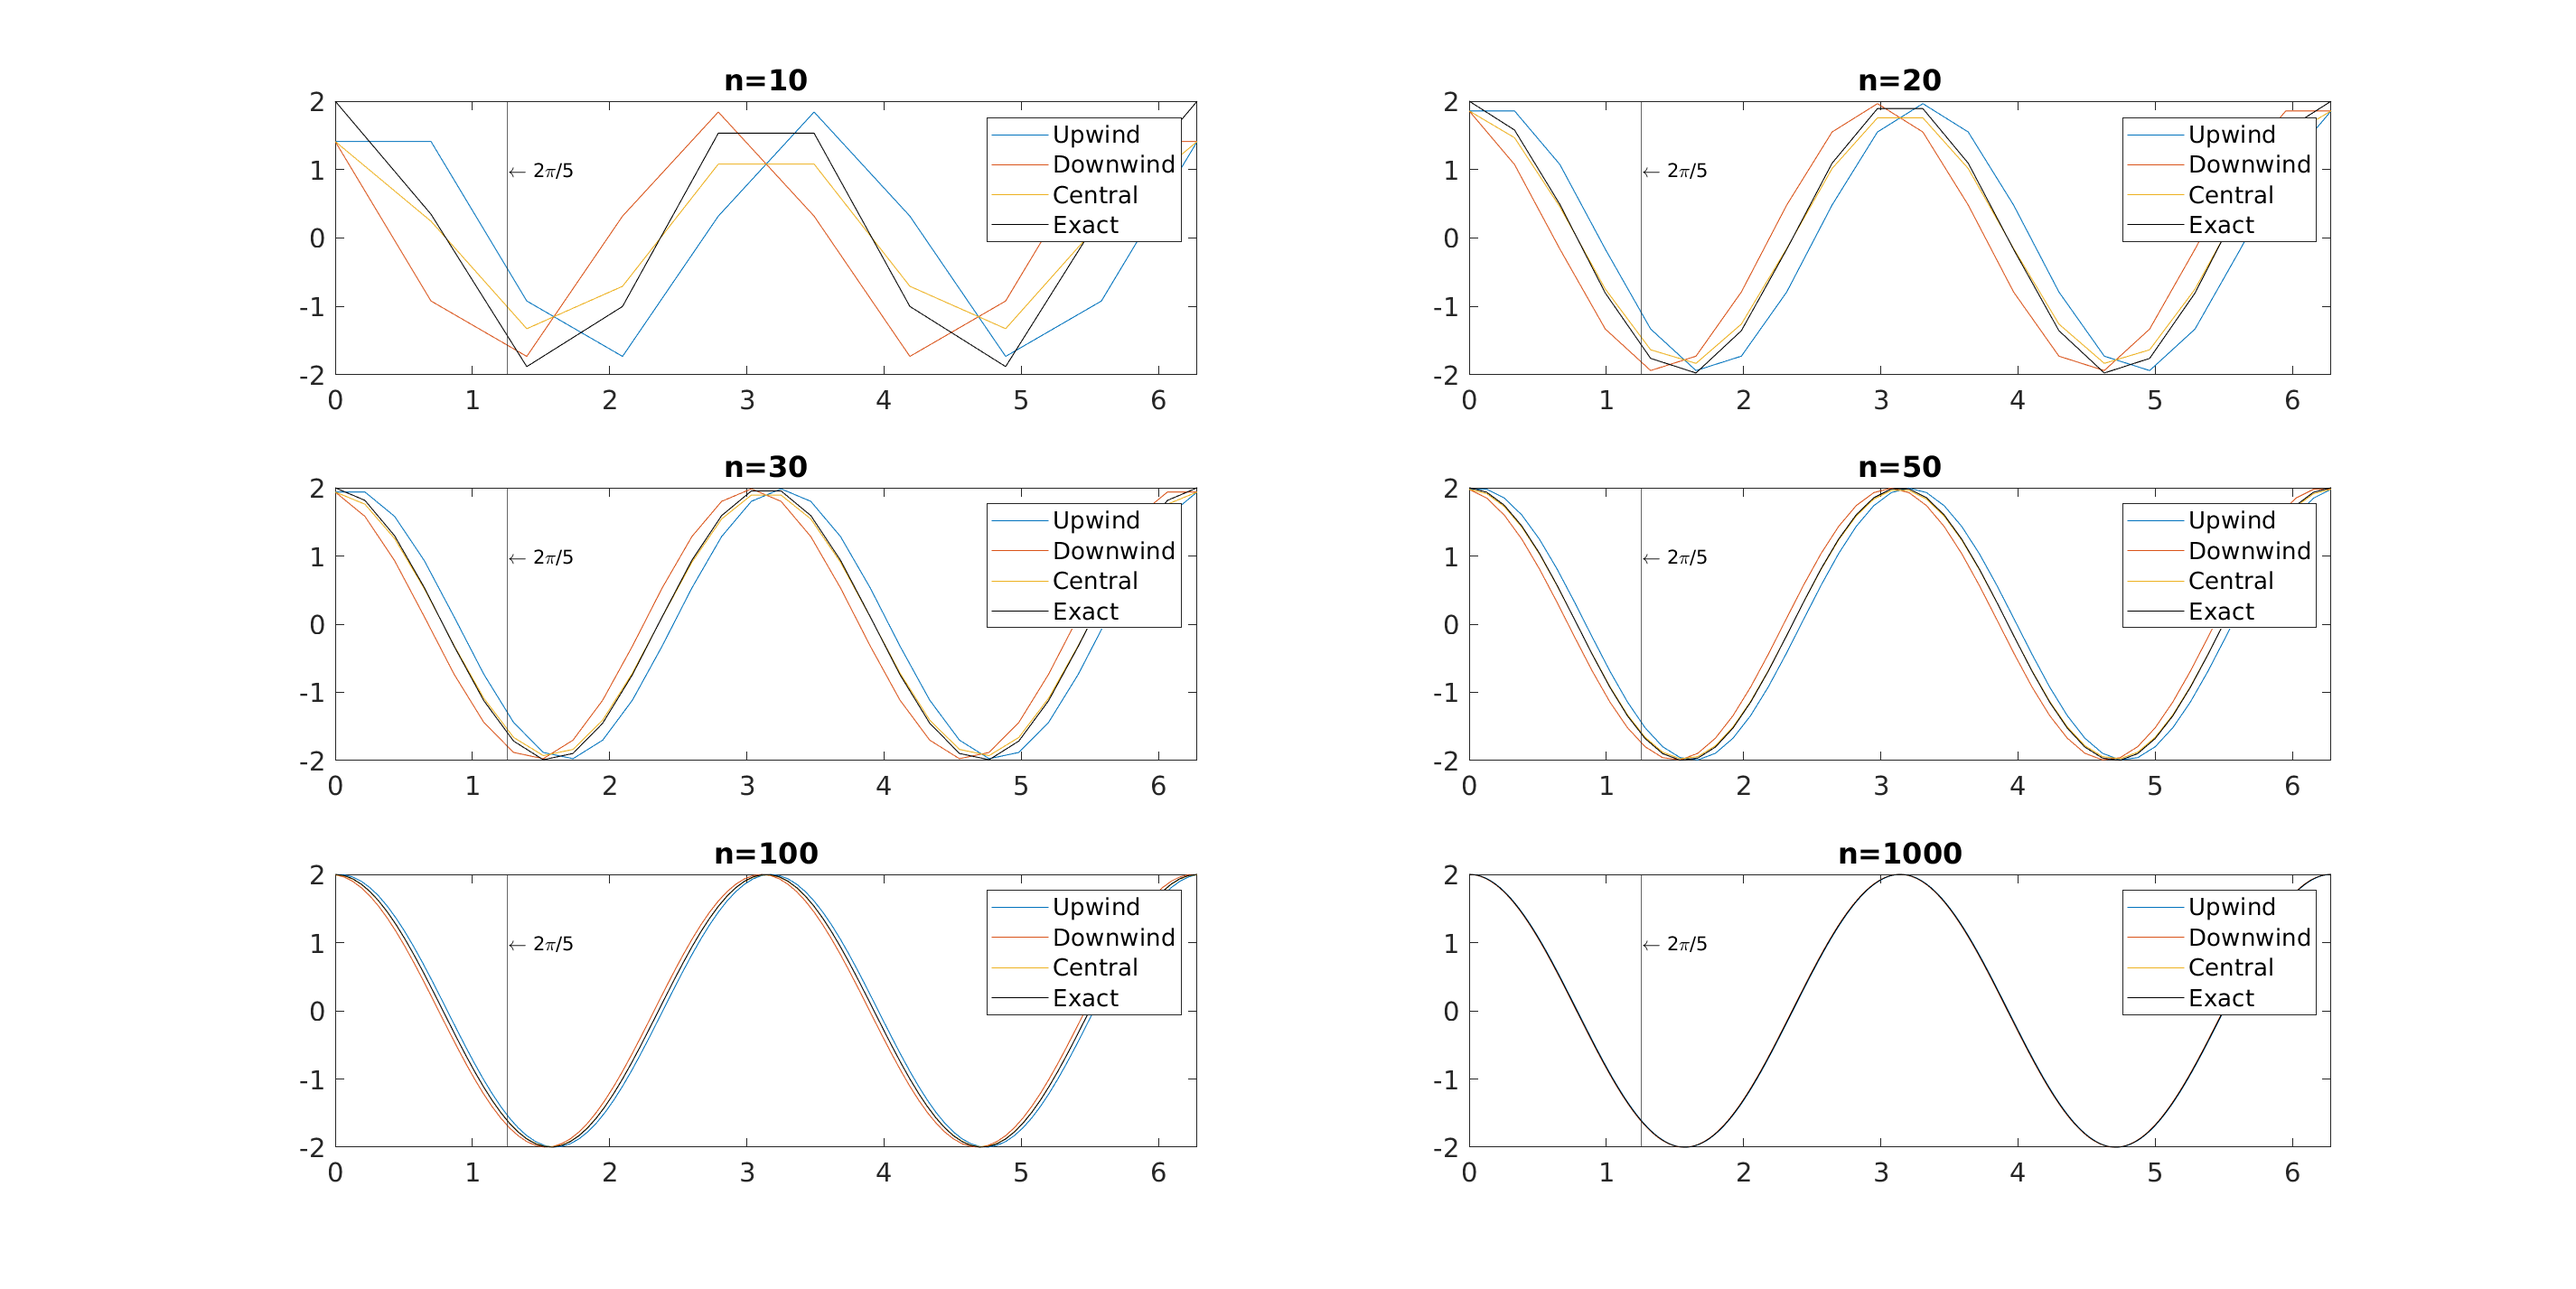
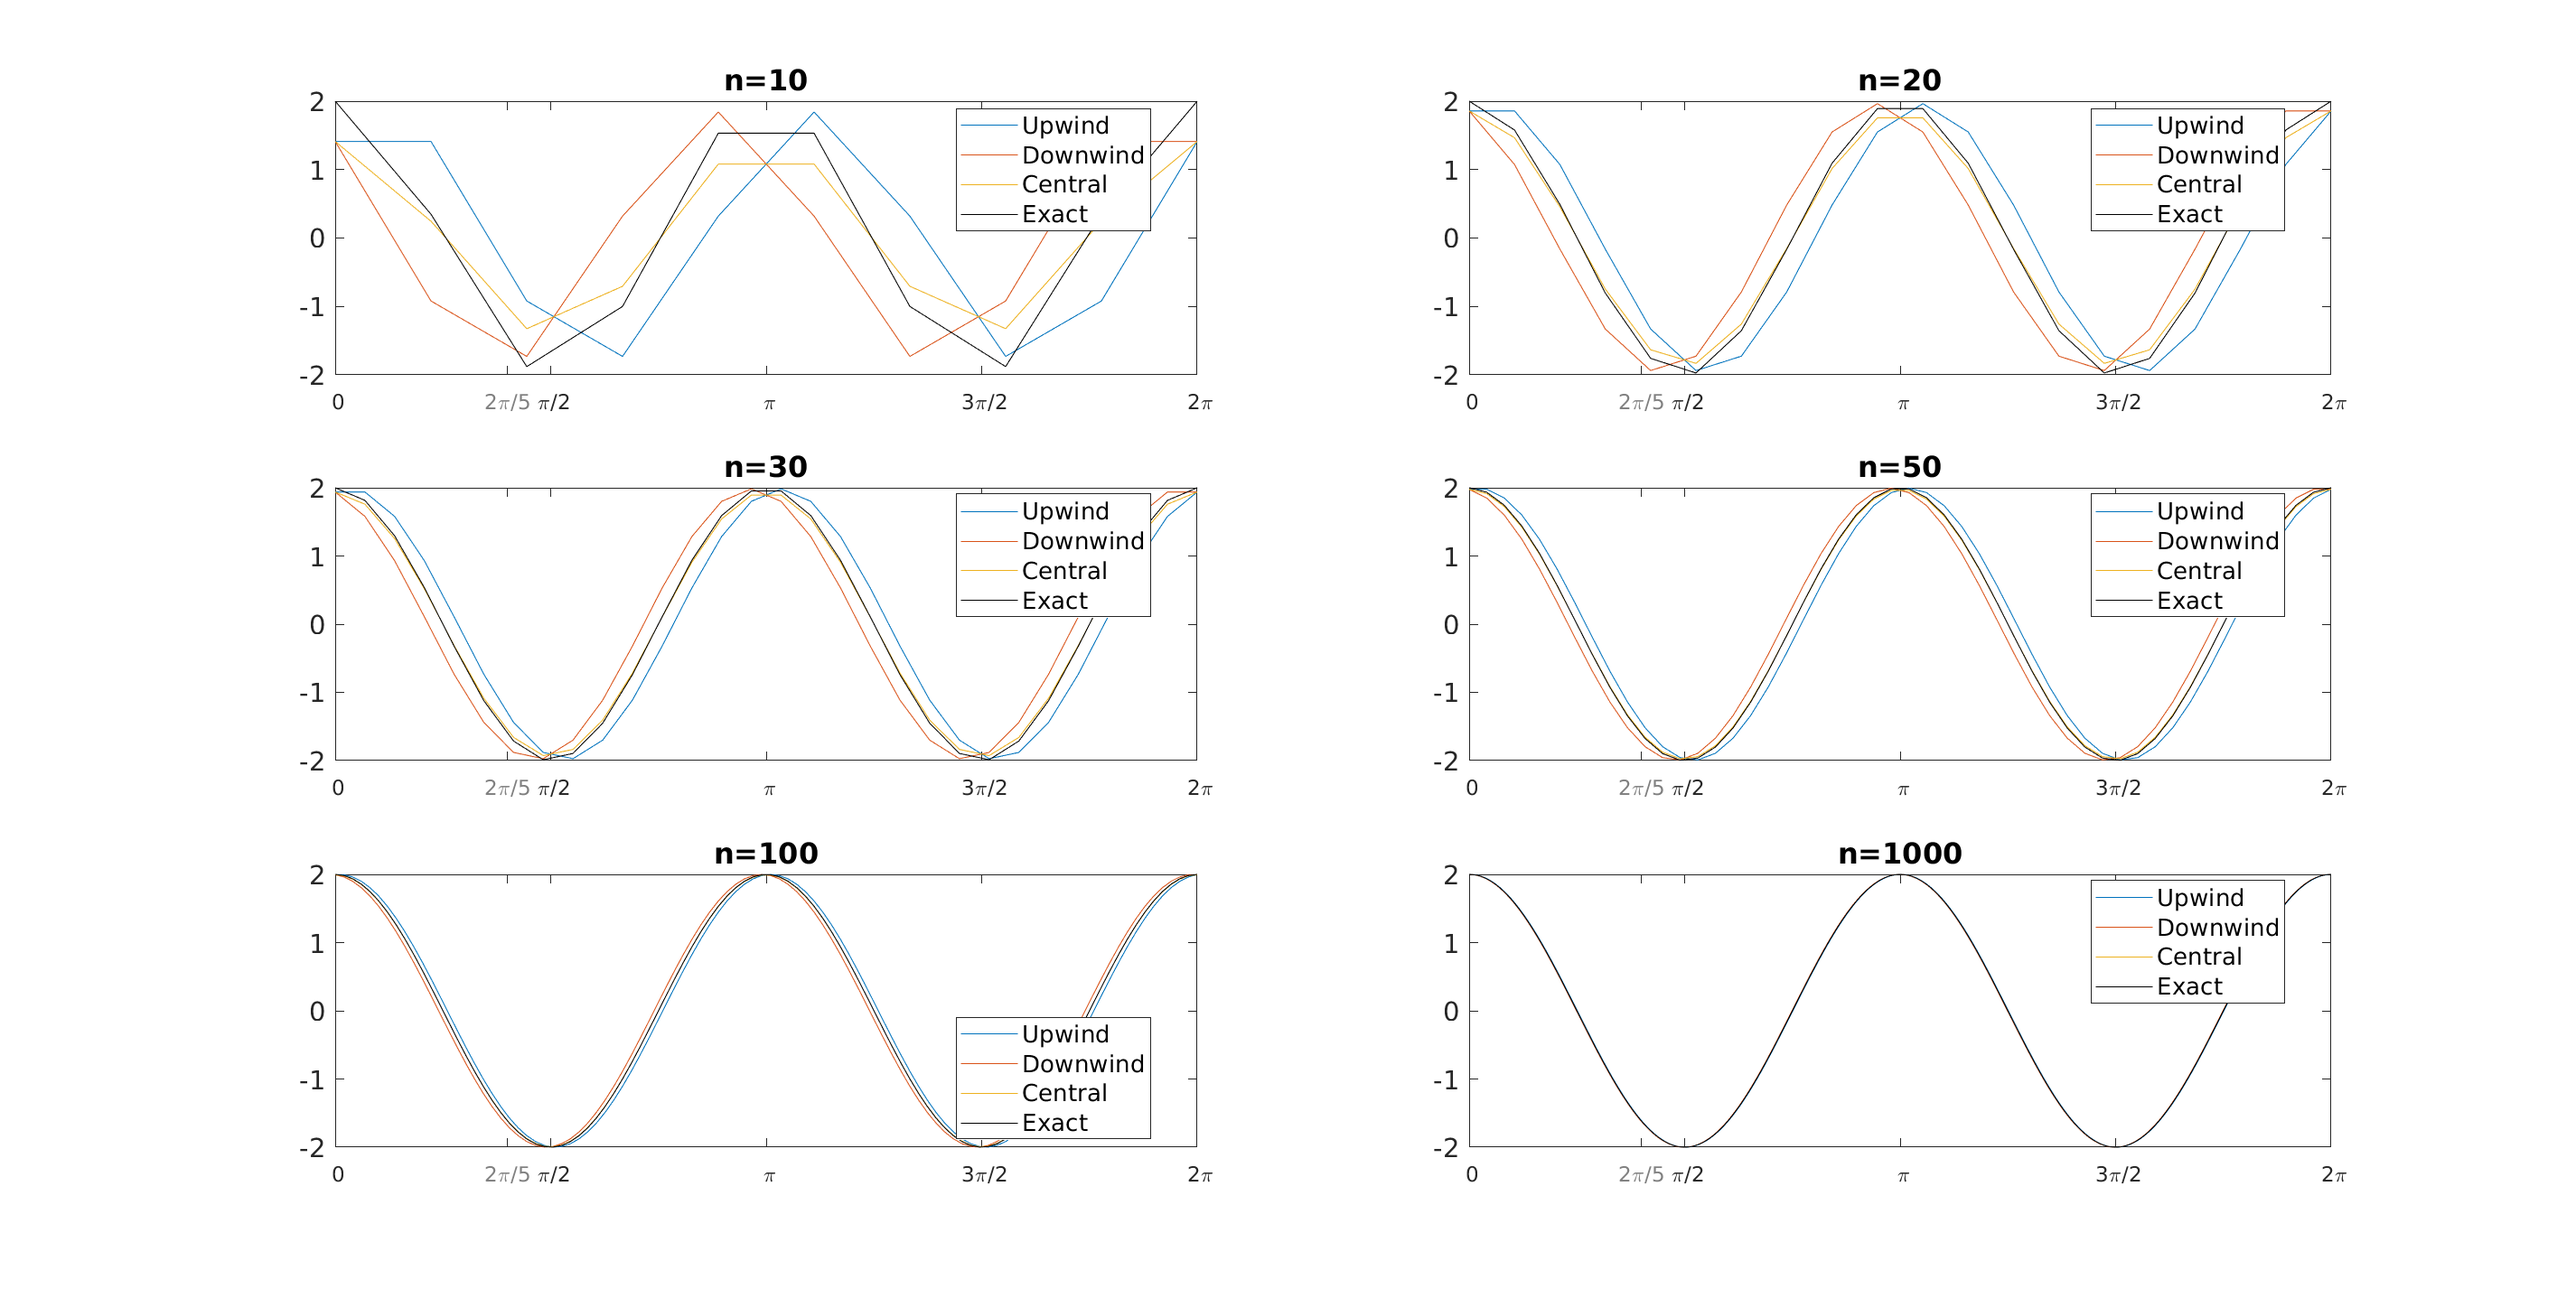
prettified plots

diff --git a/one.m b/one.m
@@ -9,14 +9,13 @@
 
 clear all
 close all
+addpath('Plots_one')
 
 %% grid and analytical solution 
 
-%grid = [10,12,13,14,15,16,17,18,20,30,50,100,1000,10000];
 grid = [10,20,30,50,100,1000,10000];
-% grid = [10:5:1000];
-%grid = [2,4,6,8,10,12,14,16,18,20,30,40,60,100,1000];
-% amount of grid points 
+
+% amount of grid points
  
 for j = 1:length(grid)
 
@@ -118,10 +117,10 @@ for j = 1:length(grid)
 %% Error of interpolated points
 
     % Value at Location of Error
-    val_error_U_interp = interp1(xq,dfn_U_interp,x_error);   % Value at linearily interpolated locatin of error: Upwind
-    val_error_D_interp = interp1(xq,dfn_D_interp,x_error);   % Value at linearily interpolated locatin of error: Downwind       
-    val_error_C_interp = interp1(xq,dfn_C_interp,x_error);   % Value at linearily interpolated locatin of error: Central
-    val_error_C2_interp = interp1(xq,dfn_C2_interp,x_error); % Value at linearily interpolated locatin of error: Central second derivative
+    val_error_U_interp = interp1(xq,dfn_U_interp,x_error);   % Value at linearely interpolated locatin of error: Upwind
+    val_error_D_interp = interp1(xq,dfn_D_interp,x_error);   % Value at linearely interpolated locatin of error: Downwind       
+    val_error_C_interp = interp1(xq,dfn_C_interp,x_error);   % Value at linearely interpolated locatin of error: Central
+    val_error_C2_interp = interp1(xq,dfn_C2_interp,x_error); % Value at linearely interpolated locatin of error: Central second derivative
  
     % Error
     er_U_interp = abs( ( val_error_dfe - val_error_U_interp ) / val_error_dfe ) ;
@@ -141,12 +140,16 @@ for j = 1:length(grid)
     error(j,7) = er_C_interp;   
     error(j,8) = er_C2;            
     error(j,9) = er_C2_interp;  
-        
+   
 %% Plots
     
     if j == 1 
+        % set X-tick Lables
+            xticks = [0, 2*pi/5, pi/2, pi, 3*pi/2, 2*pi];
+            xticklabels = {'\fontsize{11} 0','\color[rgb]{0.5,0.5,0.5}\fontsize{11}2\pi/5','\fontsize{11} \pi/2','\fontsize{11} \pi','\fontsize{11} 3\pi/2','\fontsize{11} 2\pi'};
         fig_first_derivative = figure('units','normalized','outerposition',[0 0 1 1]);
         fig_second_derivative = figure('units','normalized','outerposition',[0 0 1 1]);
+
     end
 
     if (6<j)            % no need to plot high n (look identical to n = 1000) 
@@ -161,12 +164,14 @@ for j = 1:length(grid)
     ax = gca;
     ax.ColorOrderIndex = 1;
 %     plot(xq, dfn_U_interp, '.--', xq, dfn_D_interp, '.--', xq, dfn_C_interp, '.--') % interpolated values
-    legend('Upwind','Downwind','Central', 'Exact','Autoupdate','off')
+    legend('Upwind','Downwind','Central', 'Exact','Autoupdate','off','Location','best')
     set(gca,'FontSize',14); 
-    xline(x_error);
-    text(x_error,1,'\leftarrow 2\pi/5')
+%     xline(x_error);
+%     text(x_error,1,'\leftarrow 2\pi/5')
     xlim([0,2*pi])
     title(['n=',num2str(n)]);
+    set(gca,'XTick',xticks)
+    ax.XTickLabel = xticklabels;
     hold off
 
 %     plot second derivative
@@ -178,12 +183,12 @@ for j = 1:length(grid)
     plot(x, dfn_C2, '-', x, dfe2, '-k') % values of numerical difference scheme
     ax.ColorOrderIndex = 5;
 %     plot(xq, dfn_C2_interp, '.--') % interpolated values
-    legend('Central', 'Exact','Autoupdate','off')
+    legend('Central', 'Exact','Autoupdate','off','Location','best')
     set(gca,'FontSize',14); 
-    xline(x_error);
-    text(x_error,1,'\leftarrow 2\pi/5')
     xlim([0,2*pi])
     title(['n=',num2str(n)]);
+    set(gca,'XTick',xticks)
+    ax.XTickLabel = xticklabels;  
     
 end
     
@@ -202,6 +207,13 @@ fig_error = figure;
     legend('Upwind','Downwind','Central','Central Second',...
         'Upwind Int','Downwind Int','Central Int','Central Second Int',...
         'Location','SouthEast')
+    
+%% Order of error
+
+order_of_er_U = (log10(error(end,2)) - log10(error(end-1,2))) / (log10(error(end,1)) - log10(error(end-1,1)));
+order_of_er_D = (log10(error(end,3)) - log10(error(end-1,3))) / (log10(error(end,1)) - log10(error(end-1,1)));
+order_of_er_C = (log10(error(end,4)) - log10(error(end-1,4))) / (log10(error(end,1)) - log10(error(end-1,1)));
+order_of_er_C2 = (log10(error(end,8)) - log10(error(end-1,8))) / (log10(error(end,1)) - log10(error(end-1,1)));
 
 %% Save files for report
 
